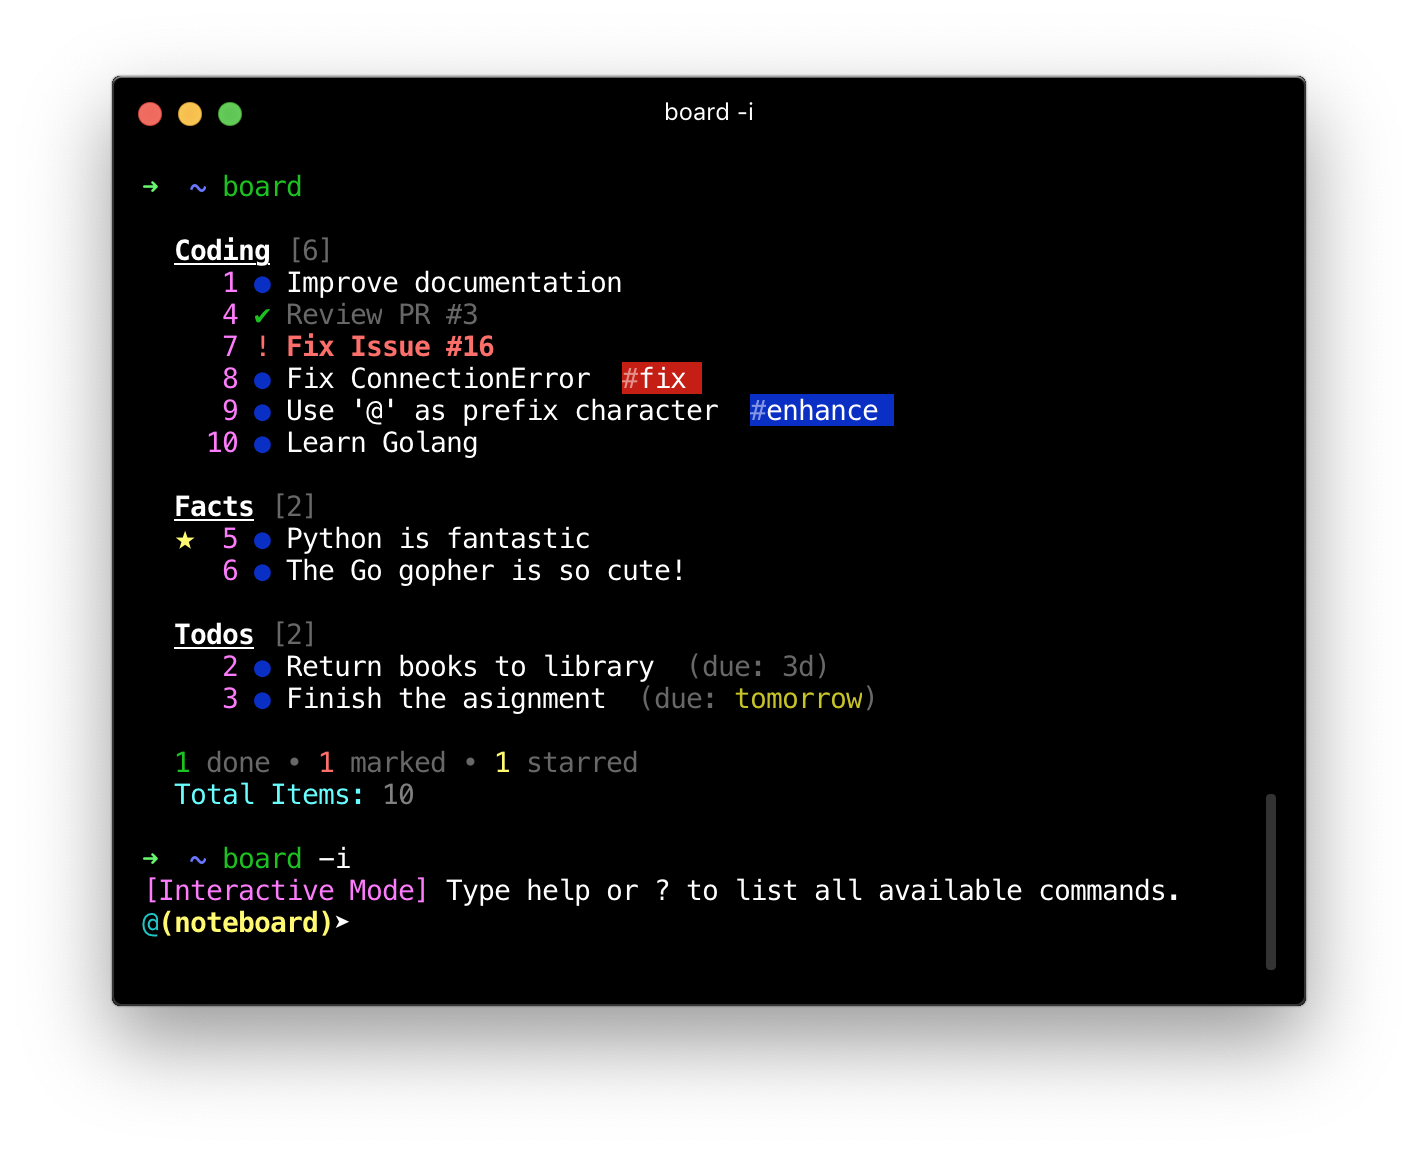
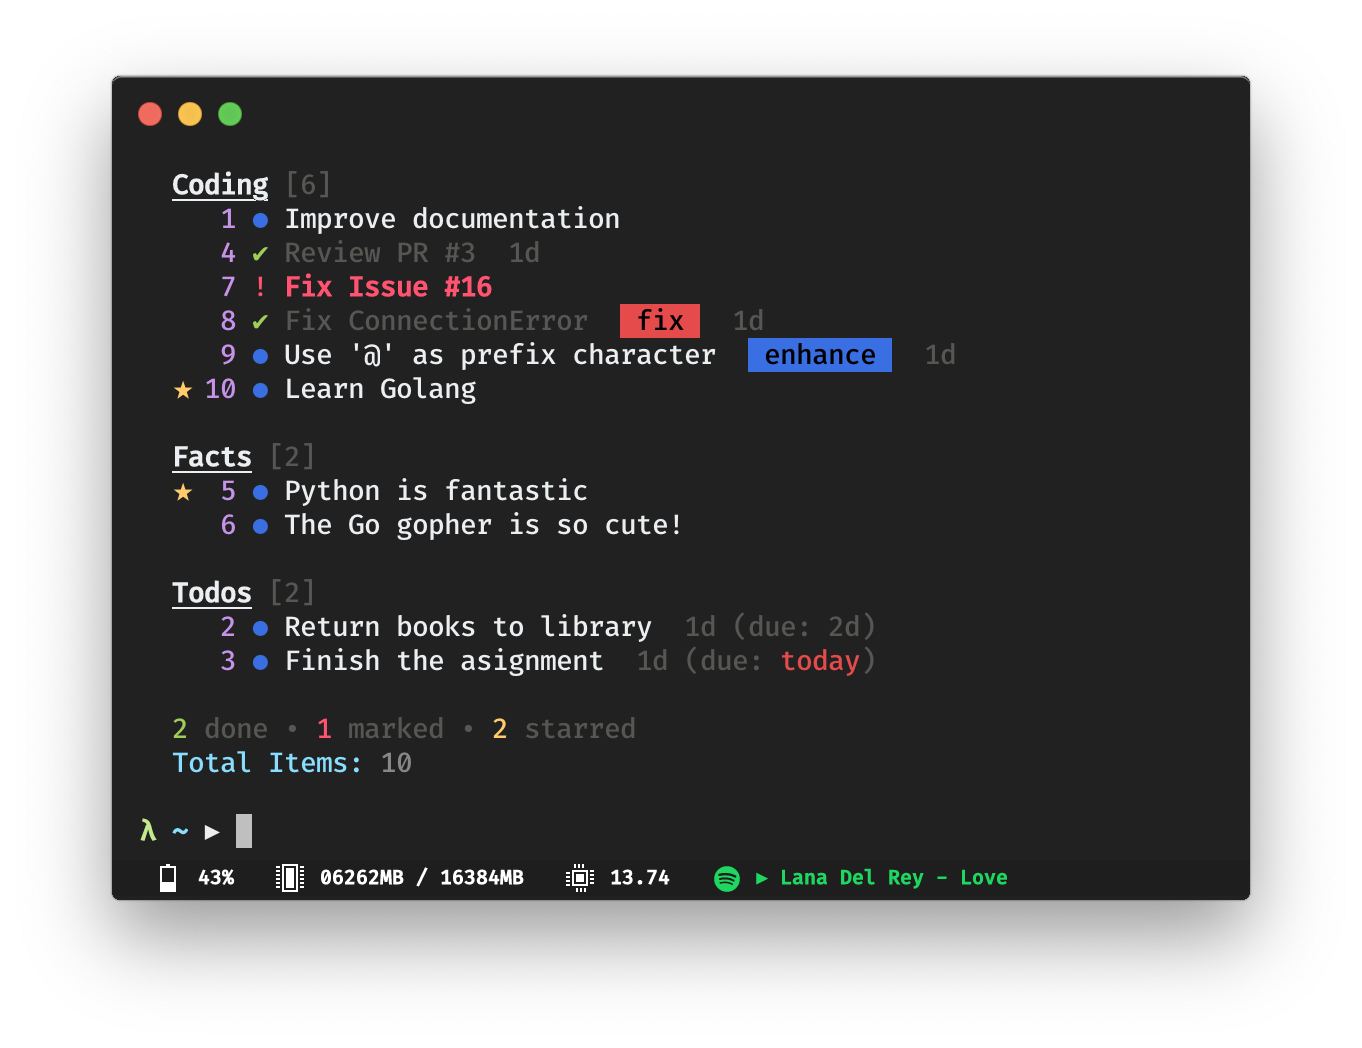
Update README.md and screenshot.png

diff --git a/README.md b/README.md
@@ -2,7 +2,7 @@
 
 <p align="center"><em>A <a href="https://github.com/klaussinani/taskbook">taskbook</a> clone written in Python</em></p>
 
-<p align="center"><img src="./screenshot.png" width=70%></p>
+<p align="center"><img src="./screenshot.png?raw=true" width=70%></p>
 
 <p align="center">
   <a href="https://pypi.python.org/pypi/noteboard"><img src="https://img.shields.io/pypi/v/noteboard.svg"></a>
@@ -125,6 +125,8 @@ Options:
 * `-d/--date` : show boards with the last modified date of each item in the format of `<weekday> <day> <month> <year>`. e.g. `Fri 25 Jan 2019`
 * `-s/--sort` : show boards with items on each board sorted alphabetically by the texts the items
 * `-i/--interactive` : enter [interactive mode](#interactive-mode)
+
+***NOTE**: If `-d/--date` is specified, items of each board will be sorted by their date in from the most recent to the oldest.*
 
 ---
 
